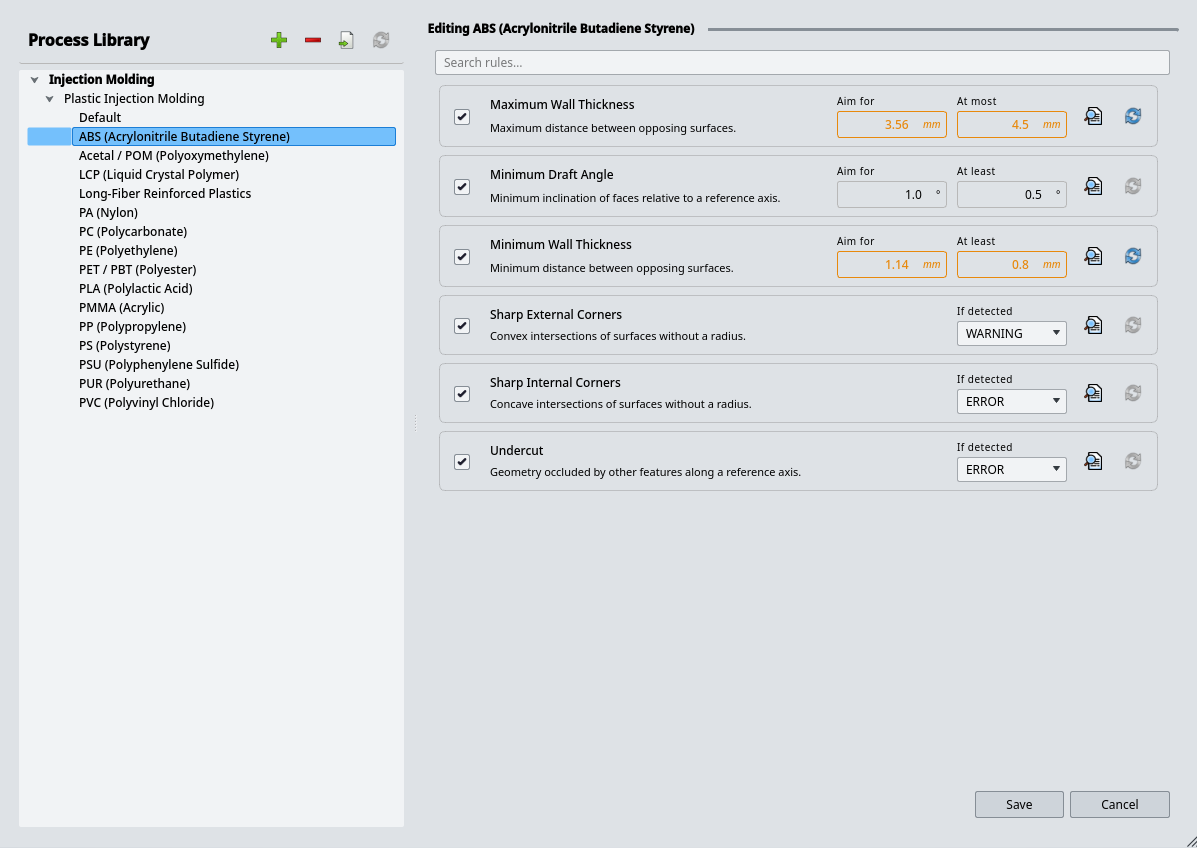
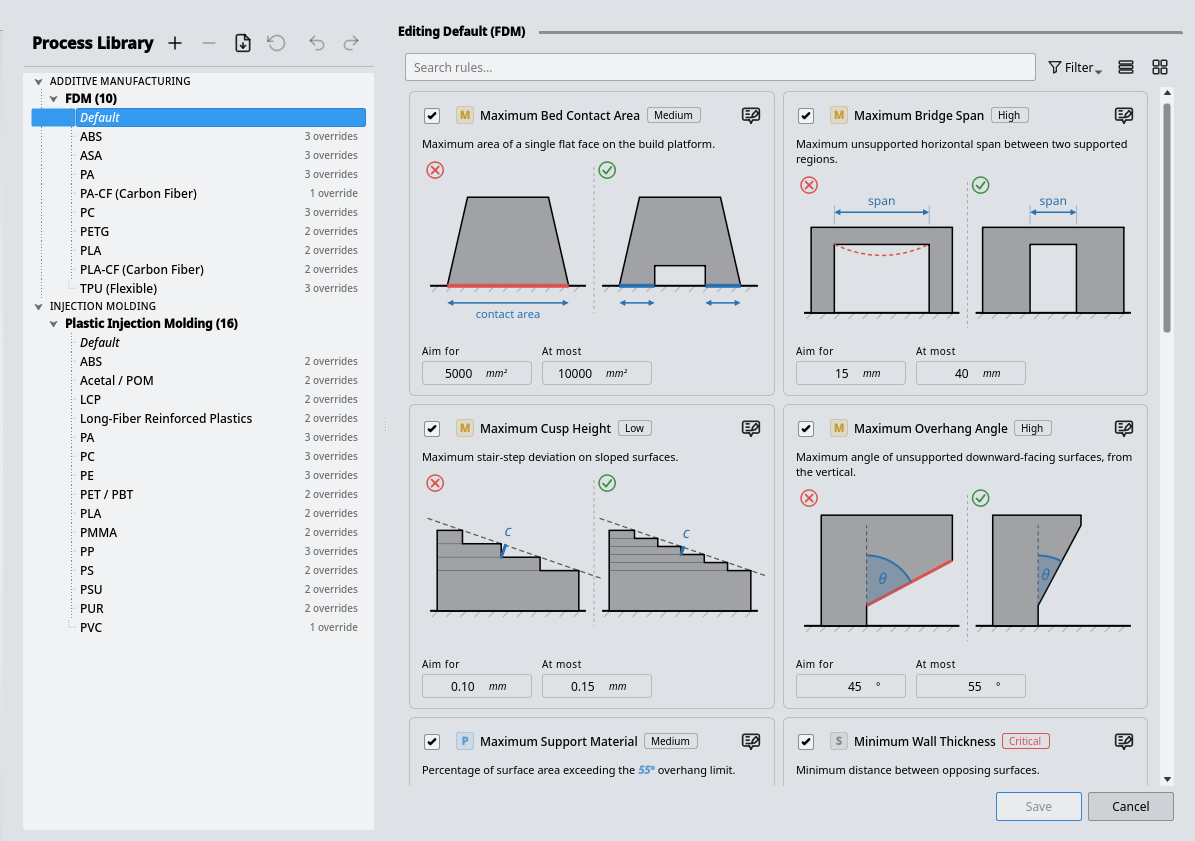
Update readme to include new features

diff --git a/README.md b/README.md
@@ -1,3 +1,5 @@
+<div align="center">
+
 # DFM Workbench
 
 ![Status](https://img.shields.io/badge/status-alpha-orange)
@@ -6,29 +8,79 @@
 A FreeCAD workbench that analyses 3D models for Design for Manufacturing (DFM)
 issues, helping designers catch problems before they reach the factory.
 
-![DFM Workbench](.github/images/overview.png)
+<img src=".github/images/overview.png" alt="DFM Workbench results panel with findings highlighted on a model" width="100%">
 
-## Features
+</div>
 
-Plastic Injection Molding is pre-configured out of the box. Rules, processes, and 
-materials are fully configurable to support any manufacturing workflow.
+The philosophy of this project is to give more power to hobbyists and small businesses to have access to powerful DFM tools that not only critique, but teach as well.
 
-**DFM Rules:**
-- [x] **Draft angle analysis:** detects faces with insufficient taper for mold ejection
-- [x] **Wall thickness analysis:** finds sections too thin or thick for the process and material
-- [x] **Undercut detection:** identifies geometry that prevents mold separation
-- [x] **Sharp corner detection:** finds sharp internal and external corners within the design
+Another key point is customisability. Every rule is 100% customisable. The Process Library is the main way you can do this, but for experts, you can tweak the parameters for the geometric analyzers in the DFM Preferences page.
 
-**Workflow:**
-- [x] **Interactive results:** failing faces highlighted directly in the 3D viewport with annotations
-- [x] **Results history:** track regressions and resolutions throughout the design process
-- [x] **Customisation:** add manufacturing processes and edit materials
-- [x] **Export:** analysis results exportable to CSV
+<table>
+<tr>
+<th align="left">Currently supported rules</th>
+<th align="left">Support manufacturing processes (currently)</th>
+<th align="left">Support contours</th>
+<th align="left">Other features</th>
+</tr>
+<tr valign="top">
+<td>
+
+- Maximum and minimum wall thickness
+- Minimum draft angle
+- Undercut detection
+- Sharp internal and external corners
+- Maximum support material
+- Maximum bridge span
+- Maximum bed contact area
+- Maximum overhang angle
+- Maximum cusp height
+
+</td>
+<td>
+
+- FDM 3D printing
+- Plastic injection molding
+
+</td>
+<td>
+
+- Thickness
+- Draft angle
+
+</td>
+<td>
+
+- Generate professional pdf reports
+- Export to CSV
+
+</td>
+</tr>
+</table>
+
+<p align="center">
+  <img src=".github/images/report_title.png" alt="PDF report cover page" width="49%">
+  <img src=".github/images/report_thickness.png" alt="PDF report page for a wall thickness rule" width="49%">
+</p>
 
 ## Contours
+
 Analyse wall thickness or draft angles of your parts, and create nice graphics.
 
-![Thickness Analysis](.github/images/thickness_analysis.png)
+<p align="center">
+  <img src=".github/images/thickness_analysis.png" alt="Wall thickness contour on a part" width="100%">
+</p>
+
+## Process Library
+
+<p align="center">
+  <img src=".github/images/process_library1.png" alt="Process Library in list layout" width="49%">
+  <img src=".github/images/process_library.png" alt="Process Library in grid layout with rule diagrams" width="49%">
+</p>
+
+<p align="center">
+  <img src=".github/images/edit_feedback.png" alt="Editing a rule's values and feedback messages" width="70%">
+</p>
 
 ## Installation
 
@@ -44,18 +96,12 @@ Install directly from the **FreeCAD Addon Manager**.
 
 </div>
 
-## Process Library
-
-<p align="center">
-  <img src=".github/images/process_library.png" alt="Process Library" width="80%"/>
-</p>
-
 ## Contributing
 
 If you'd like to help out, here are some ways you might consider contributing:
 
 - Creating bug reports
-- Suggesting new features 
+- Suggesting new features
 - Submitting code to fix bugs or add new features
 - Creating user documentation on FreeCAD Wiki
 - Sharing DFM knowledge for any manufacturing process (through submitting an issue would be great!)
